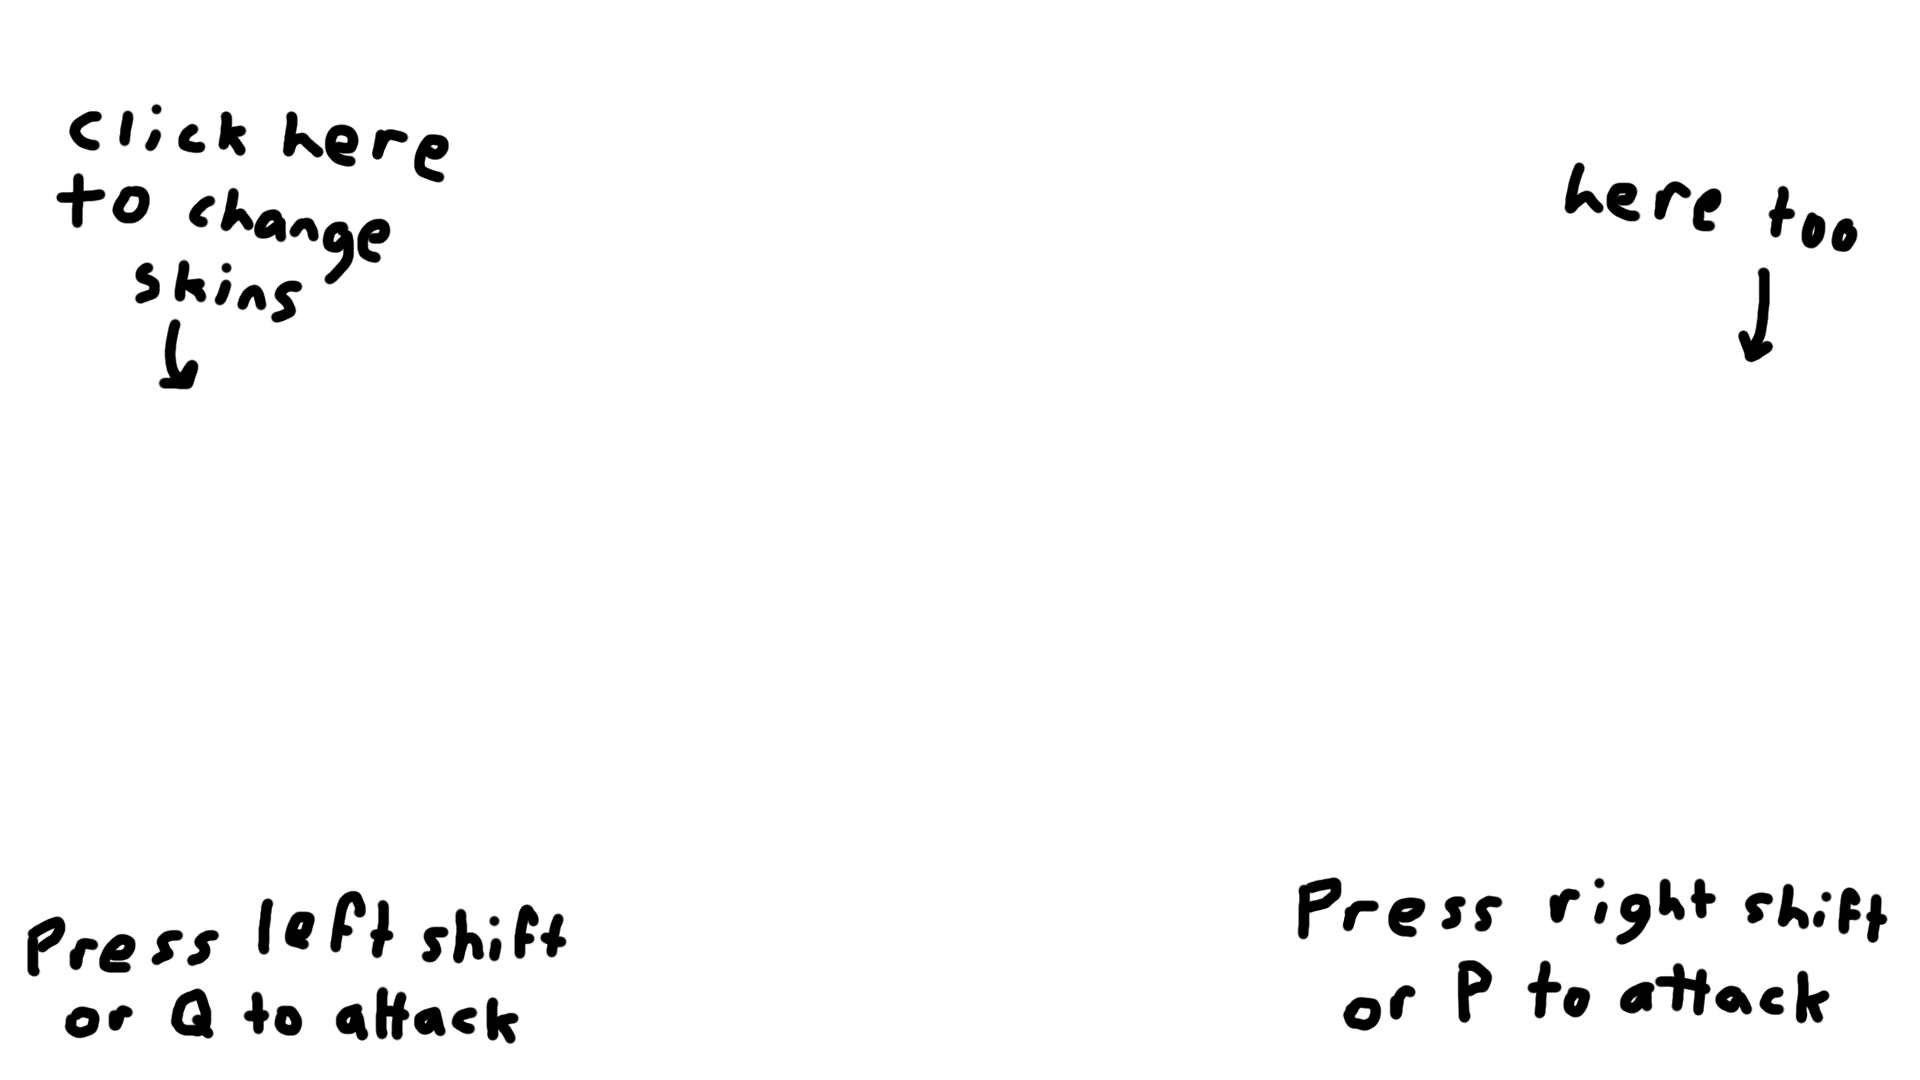
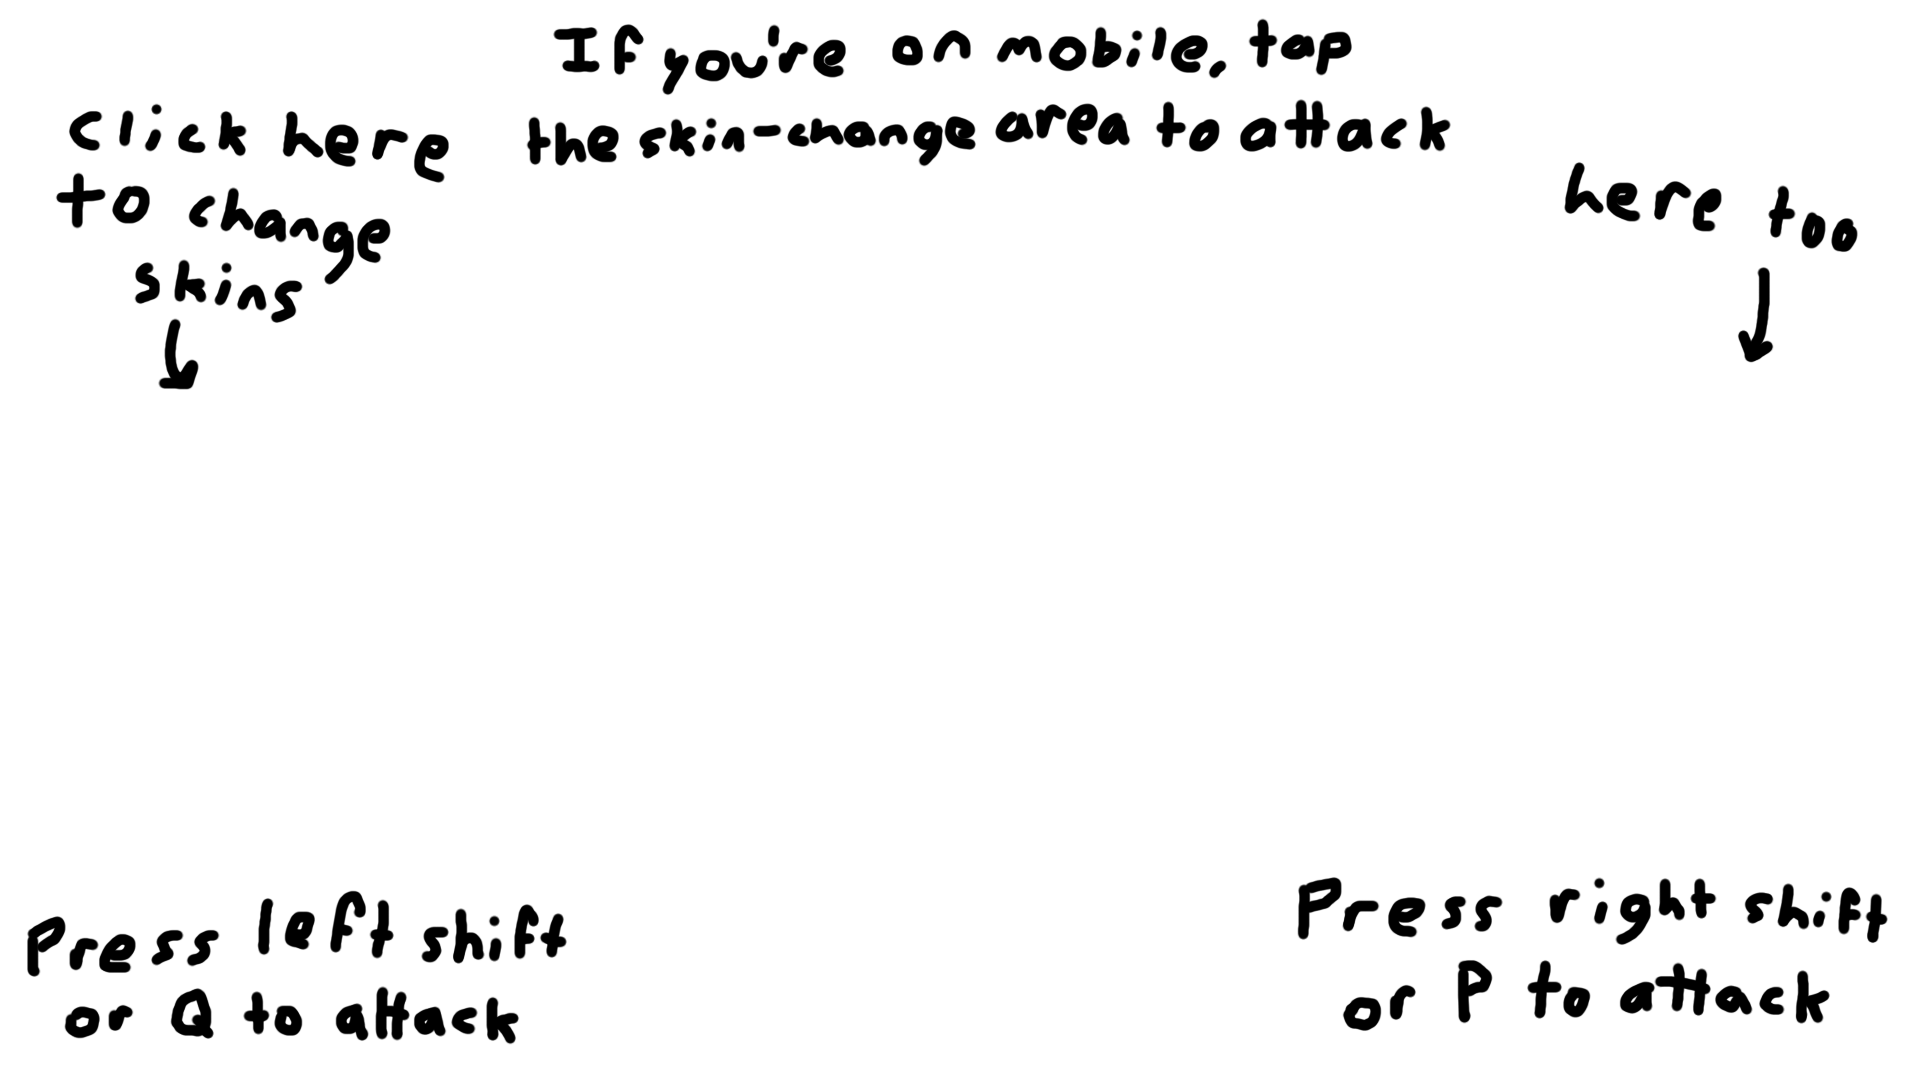
fix some mobile stuff

Changed region(s): [[0.25, 0.0, 0.75, 0.1528]]

diff --git a/index.html b/index.html
@@ -111,10 +111,12 @@
 <script>
 
 const id = iden => document.getElementById(iden)
+const isMobile = /Android|webOS|iPhone|iPad|iPod|BlackBerry|IEMobile|Opera Mini/i.test(navigator.userAgent)
 
-function updateGameInfo(title, paragraph, link, button = "LAUNCH") {
+function updateGameInfo(title, paragraph, link, mobile = false, button = "LAUNCH") {
 	id("gameInfoTitle").innerHTML = title
 	id("gameInfoParagraph").innerHTML = paragraph
+	if(isMobile && mobile) id("gameInfoParagraph").innerHTML += "<br>* Mobile compatible"
 	id("launchButton").onclick = () => location.href = `/${link}`
 	id("launchButton").innerHTML = button
 }
@@ -126,14 +128,16 @@ function clickGame(game) {
 			updateGameInfo(
 				"JavaScript Message v4.0",
 				"The fourth iteration of JavaScript Message, a social platform intended for in-school use.",
-				"javascriptmessage"
+				"javascriptmessage",
+				true
 			)
 			break
 		case "gnome":
 			updateGameInfo(
 				"Gnome Fighter+",
 				"A riveting button-mashing fighting game staring Gnome and Anti-Gnome, completely remade with bonus content!",
-				"gnomefighter/plus"
+				"gnomefighter/plus",
+				true
 			)
 			break
 		case "tetris":
@@ -147,7 +151,8 @@ function clickGame(game) {
 			updateGameInfo(
 				"Russian Roulette",
 				"The classic party game you know and love, but the \"bullet\" is hearing loss. Earbuds required!",
-				"russianroulette"
+				"russianroulette",
+				true
 			)
 			break
 		case "crab web":
@@ -162,6 +167,7 @@ function clickGame(game) {
 				"Crab Simulator v1.3 (download)",
 				"A download link for Crab Simulator, originally developed on Python 3, then ported to Windows devices.",
 				"crabsimulator/CrabSimulator1.3.zip",
+				false,
 				"DOWNLOAD"
 			)
 			break

diff --git a/gnomefighter/plus/script.js b/gnomefighter/plus/script.js
@@ -165,10 +165,14 @@ document.addEventListener("click", e => {
 })
 
 function skinChange(num) {
-	num = num ? 0 : 1
-	skinArray[num]++
-	if(skinArray[num] >= skins.length) skinArray[num] = 0
-	id(num ? "antiGnome" : "gnome").src = `./assets/${skins[skinArray[num]]}.png`
+	if(gameState == 0) {
+		num = num ? 0 : 1
+		skinArray[num]++
+		if(skinArray[num] >= skins.length) skinArray[num] = 0
+		id(num ? "antiGnome" : "gnome").src = `./assets/${skins[skinArray[num]]}.png`
+	} else if(gameState == 2) {
+		num ? gnomeAttack() : antiGnomeAttack()
+	}
 }
 
 function gnomeError(element) {
@@ -327,8 +331,8 @@ function update() {
 // rewrite so it randomly picks between going towards other gnome and towards the center of the screen
 function jitterEntity(iden) {
 	if(gameState == 3) return
-	let x = entities[iden].x + (Math.random() * 31 - 15)
-	let y = entities[iden].y + (Math.random() * 31 - 15)
+	let x = entities[iden].x + (Math.random() * 31 - 15.5)
+	let y = entities[iden].y + (Math.random() * 31 - 15.5)
 	if(x < 0) x = 0
 	if(x > 1921 - entities[iden].w) x = 1921 - entities[iden].w
 	if(y < 0) y = 0

diff --git a/gnomefighter/plus/index.html b/gnomefighter/plus/index.html
@@ -2,7 +2,7 @@
 <html>
 
 <head>
-	<title>Gnome Figher+</title>
+	<title>Gnome Fighter+</title>
 	<meta charset="utf-8">
 	<meta name="viewport" content="width=device-width, initial-scale=1.0, maximum-scale=1, user-scalable=0">
 	<link rel="stylesheet" href="style.css">

diff --git a/gnomefighter/plus/style.css b/gnomefighter/plus/style.css
@@ -60,6 +60,12 @@ a {
 	position: relative;
 	color: darkgray;
 	z-index: 5;
+	user-drag: none;
+	-webkit-user-drag: none;
+	user-select: none;
+	-moz-user-select: none;
+	-webkit-user-select: none;
+	-ms-user-select: none;
 }
 
 a:link {
